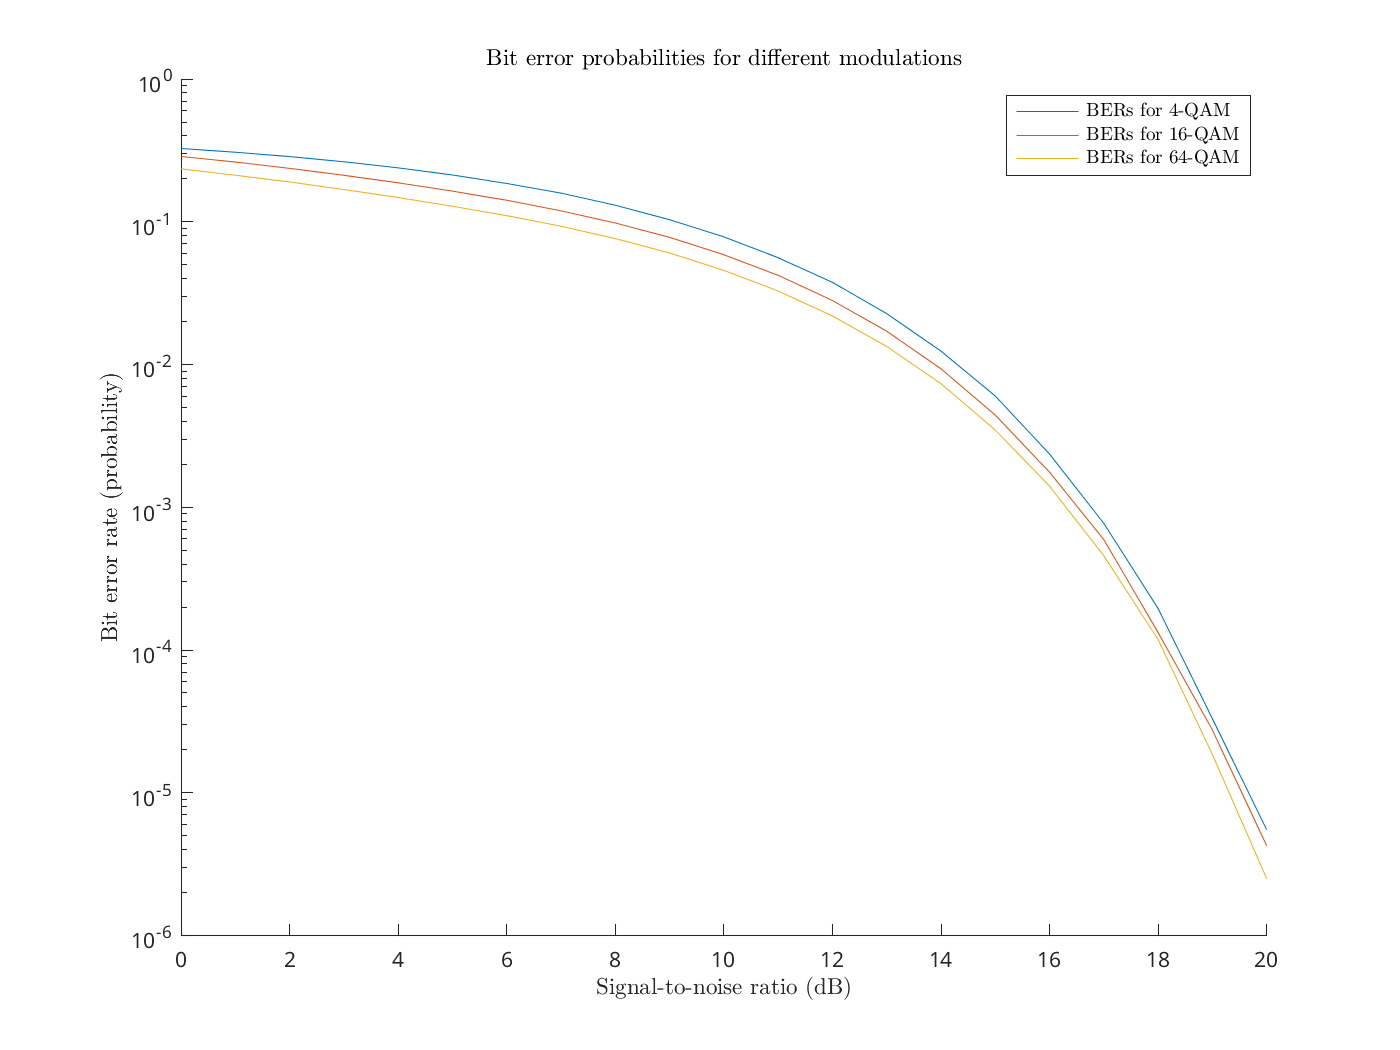
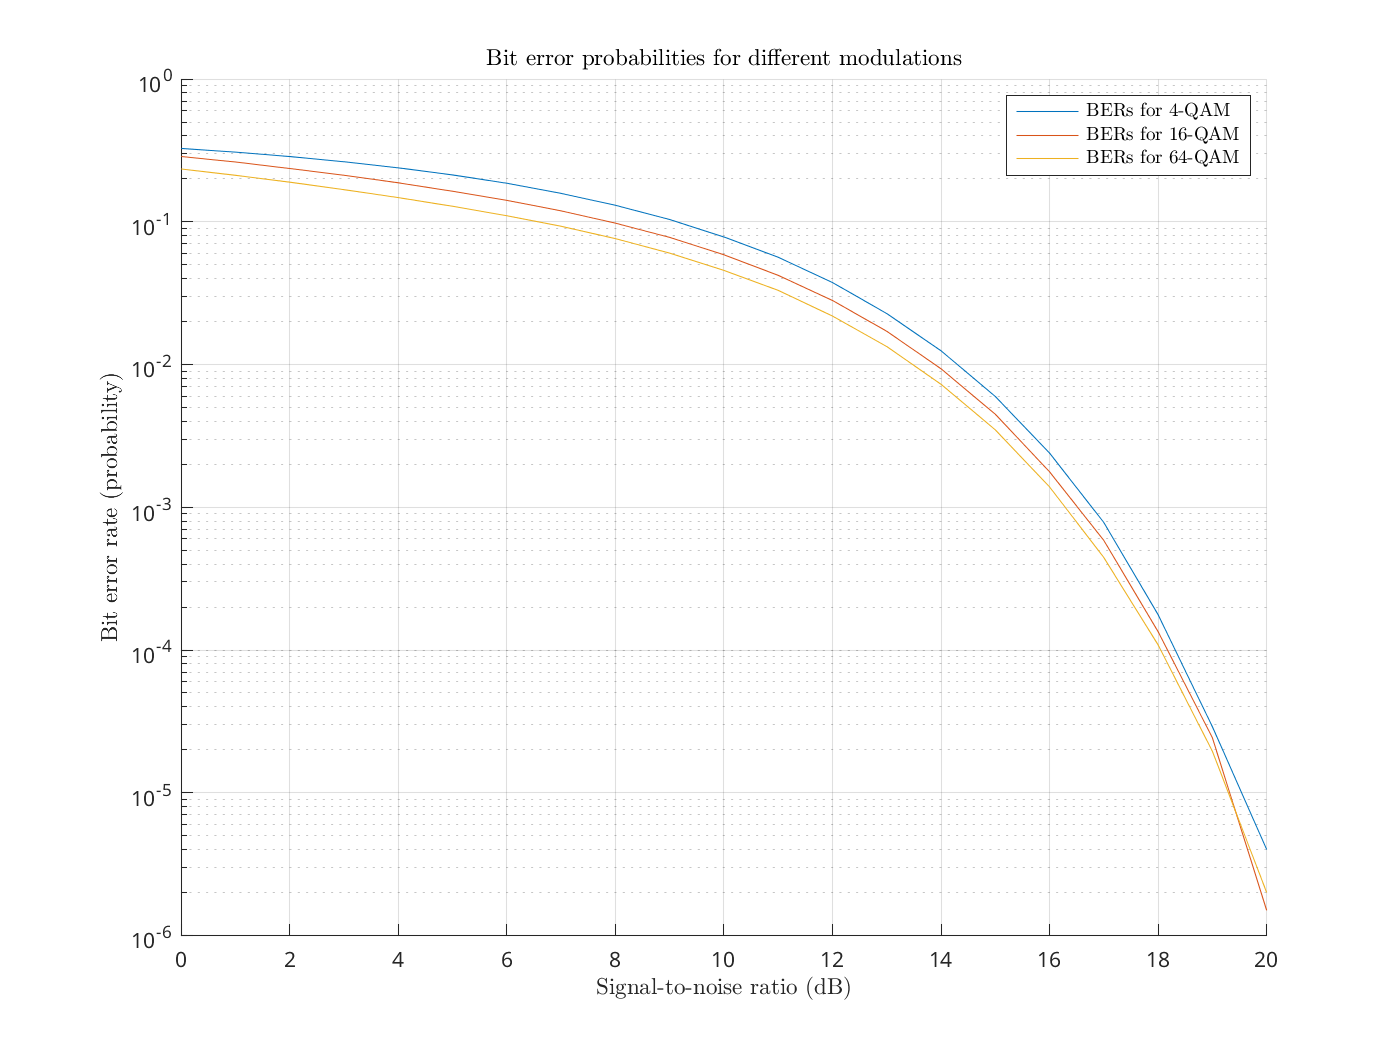
Finish section 3 code and plots

diff --git a/code/section3.m b/code/section3.m
@@ -24,9 +24,23 @@ set(groot, 'defaultLegendInterpreter', 'latex');
 % Es = 10;                % Mean Energy per Symbol
 % p=[1];                  % Equivalent discrete channel -- VAR
 
+%% Custom functions
+
+% Calculate symbol error rate based on bit errors and QAM order
+function SER = symerr(Berrs, M)
+    m = log2(M);
+    nSym = numel(Berrs)/m;
+
+    % Since qamdemod doesn't output estimated symbols, we'll use the fact that
+    % one or more bit errors in an aligned group of m=log2(M) bits is 1 symbol
+    % error
+    SER = sum(sum(reshape(Berrs, m, nSym)) ~= 0)/nSym;
+end
+
+
 %% Experiment definition
 
-function [BER_data, SER_data] = experiment(Ms, SNRs)
+function [BERs, SERs] = experiment(M, SNRs)
 
     % Static params
     persistent nSimb tAssig Es p;
@@ -36,92 +50,99 @@ function [BER_data, SER_data] = experiment(Ms, SNRs)
     p = [1];                % Equivalent discrete channel
 
     % Create original sequence A[n] and noiseless sequence o[n]
-    
-    % Get BERs for each M
-    BER_data = zeros(numel(Ms), numel(SNRs));
-    SER_data = zeros(numel(Ms), numel(SNRs));
-    for i=1:numel(Ms)
-        M = Ms(i);
-        [B, A, o] = experiment_init(M, nSimb, tAssig, p);
-        [BERs, SERs] = experiment_bers(M, tAssig, Es, A, B, o, SNRs);
-        BER_data(i,:) = BERs;
-        SER_data(i,:) = SERs;
+    [B, ~, o] = experiment_init(M, nSimb, tAssig, p);
+
+    % Get bit and symbol error rates
+    BERs = zeros(size(SNRs));
+    SERs = zeros(size(SNRs));
+    for i=1:numel(SNRs)
+        snr = SNRs(i);
+        % Get error rates
+        [~, ~, BERs(i), SERs(i)] = experiment_exec(M, tAssig, snr, Es, B, o);
     end
 end
 
 function [B, A, o] = experiment_init(M, nSimb, tAssig, p)
     m = log2(M);            % Bits per symbol
     nBits = nSimb * m;      % Number of bits in the simulation
+
     % Digital QAM Modulator
-    B = randi([0 1], nBits, 1); % Generation of Bits 
+    B = randi([0 1], nBits, 1);                % Generation of Bits 
     A = qammod(B, M, tAssig, InputType='bit'); % Symbols encoded from bits
+
     % Discrete equivalent channel
     o = conv(A, p); o = o(1:nSimb);
 end
 
-function [q, Be] = experiment_exec(M, tAssig, SNR_dB, Es, o)
-    q = awgn(o, SNR_dB, 10*log10(Es));
-    Be = qamdemod(q, M, tAssig, OutputType='bit');
-end
-
-function [BERs, SERs] = experiment_bers(M, tAssig, Es, A, B, o, snr_values)
-    m = log2(M);
+% Get noisy sequence, estimated bits, BER, and SER
+function [q, Be, BER, SER] = experiment_exec(M, tAssig, snr, Es, B, o)
+    % Get noisy sequence
+    q = awgn(o, snr, 10*log10(Es));
     
-    % Get error rates for each snr
-    BERs = zeros(size(snr_values));
-    SERs = zeros(size(snr_values));
-    for i=1:numel(snr_values)
-        snr = snr_values(i);
+    % Get demodulated bits
+    Be = qamdemod(q, M, tAssig, OutputType='bit');
 
-        % Get demodulated bits
-        [~, Be] = experiment_exec(M, tAssig, snr, Es, o);
-        
-        % Bit error rate
-        [~, BERs(i)] = biterr(B, Be);
-
-        % Symbol error rate. Since qamdemod doesn't output estimated
-        % symbols, we'll use the fact that a single bit error in an
-        % aligned group of m=log2(M) bits is a symbol error
-        Berrs = B~=Be;
-        symbol_errors = 0;
-        for j=0:numel(B)/m-1
-            if (sum(Berrs(m*j+1:m*(j+1))) ~= 0)
-                symbol_errors = symbol_errors +1;
-            end
-        end
-        SERs(i) = double(symbol_errors)/double(numel(A));
-    end
+    % Bit and symbol error rates
+    [~, BER, Berrs] = biterr(B, Be);
+    SER = symerr(Berrs, M);
 end
 
-%% Section 3.
 
+%% Section 3.1 - Running experiments
 section = [3 1];
-% Figure prefix
-fprefix = sprintf('../figures/%d.%d', section(1), section(2));
 
 % Experiment parameters
 Ms = [4 16 64];
 SNRs = 0:1:20;
 
-[BER_data, SER_data] = experiment(Ms, SNRs);
+% -- Run experiments
+BER_data = zeros(numel(Ms), numel(SNRs));
+SER_data = zeros(numel(Ms), numel(SNRs));
+for i=1:numel(Ms)
+    M = Ms(i);
+    fprintf('Running experiment for %d-QAM...\n',M);
+    [BER_data(i,:), SER_data(i,:)] = experiment(M, SNRs);
+end
+SER_BER_ratios = SER_data./BER_data;
 
-% Plots
+%% Section 3.1 - Plots
+fprintf('Plotting data...\n');
+
+% Figure prefix
+fprefix = sprintf('../figures/%d.%d', section(1), section(2));
+
+% BERs
 figure(1); clf; hold on;
 for i=1:numel(Ms)
     semilogy(SNRs, BER_data(i,:), DisplayName=sprintf('BERs for %d-QAM', Ms(i)));
-end
+end; hold off;
+grid on;
 title('Bit error probabilities for different modulations');
 xlabel('Signal-to-noise ratio (dB)');
 ylabel('Bit error rate (probability)'); yscale log;
 legend('show');
 print(sprintf('%s.1-BERs.png', fprefix), '-dpng');
  
+% SERs
 figure(2); clf; hold on;
 for i=1:numel(Ms)
     semilogy(SNRs, SER_data(i,:), DisplayName=sprintf('SERs for %d-QAM', Ms(i)));
-end
+end; hold off;
+grid on;
 title('Symbol error probabilities for different modulations');
 xlabel('Signal-to-noise ratio (dB)');
 ylabel('Symbol error rate (probability)'); yscale log;
 legend('show')
 print(sprintf('%s.2-SERs.png', fprefix), '-dpng');
+
+% SER-BER ratios
+figure(3); clf; hold on;
+for i=1:numel(Ms)
+    plot(SNRs, SER_BER_ratios(i,:), DisplayName=sprintf('SER/BER ratio for %d-QAM', Ms(i)))
+end; hold off;
+grid on;
+title('SER-BER ratios for different modulations');
+xlabel('Signal-to-noise ratio (dB)');
+ylabel('SER/BER (ratio)'); ylim([0, max(SER_BER_ratios, [], 'all')]);
+legend('show')
+print(sprintf('%s.3-SER-BER-ratios.png', fprefix), '-dpng');
